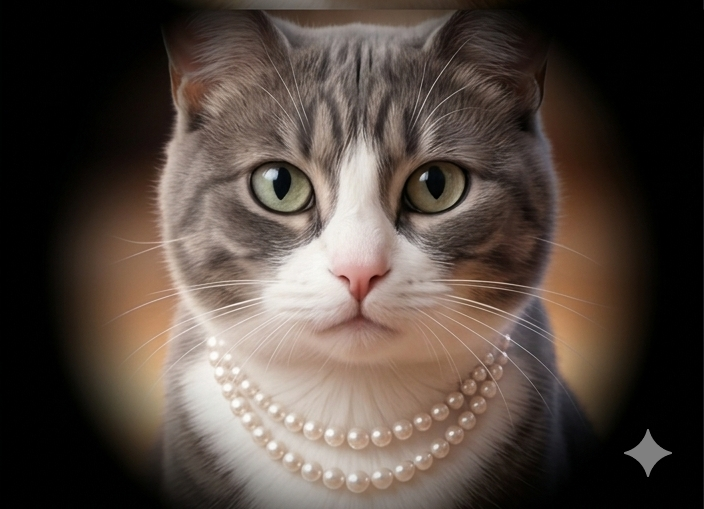
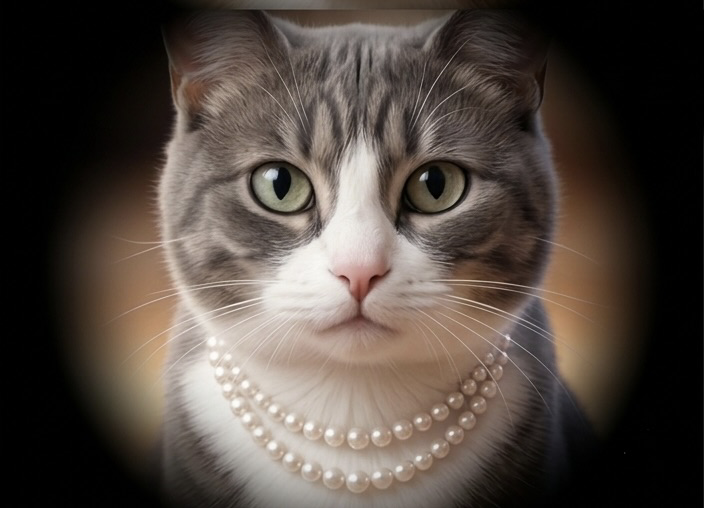
Background audio with foreground haptic resume + face polish
This commit bundles three pieces of Phase B feedback:

1) Lock-screen behavior (Option A: audio keeps going, haptic resumes
   on unlock). Added UIBackgroundModes=audio to Info.plist so the
   audio session survives lock. iOS does NOT permit CHHapticEngine to
   play under lock — that's a documented system restriction (see
   CHHapticEngine.StoppedReason.applicationSuspended). My earlier
   attempt to restart from the stoppedHandler was based on a wrong
   assumption; reverted. The right move is to restart the engine the
   instant the app comes back to the foreground, which is what
   SceneDelegate.sceneWillEnterForeground now does via the new
   AppState.resumeHapticsForForegroundIfNeeded().

2) Slide-down for the kitten buttons. faceImageView starts isHidden,
   so before any selection the kitten buttons sit centered. On first
   selection we animate isHidden=false + alpha=1 + layoutIfNeeded in
   one block, which lets UIStackView slide the buttons down naturally
   to make room. Switching between kittens uses transitionCrossDissolve
   on the image only — buttons stay put. Stop / timer expire collapses
   the face and slides the buttons back up.

3) Landscape layout jump on bolding. Cause: in landscape the kitten
   buttons are a horizontal row whose height equals the tallest
   button. Bolding the active kitten (24pt regular -> 26pt bold)
   grew the intrinsic height ~2pt, and because mainStackView is
   centered vertically + horizontally, that 2pt growth re-centered
[…]

diff --git a/Purr Machine/Purr Machine/ViewController.swift b/Purr Machine/Purr Machine/ViewController.swift
@@ -87,6 +87,12 @@ extension ViewController {
             b.layer.cornerRadius = 10
             b.tag = kitten.rawValue
             b.addTarget(self, action: #selector(kittenButtonTapped(_:)), for: .touchUpInside)
+            // Lock height so the 24pt-regular ↔ 26pt-bold swap on activation
+            // can't change the button's intrinsic height. In landscape the
+            // kitten buttons are a horizontal row whose height = tallest
+            // button, so without this any font-weight change would resize
+            // the row and re-center the whole layout (visible as a jump).
+            b.heightAnchor.constraint(equalToConstant: 50).isActive = true
             return b
         }
 
@@ -102,14 +108,17 @@ extension ViewController {
         timerButton.titleLabel?.font = UIFont.systemFont(ofSize: 22, weight: .regular)
         timerButton.layer.cornerRadius = 10
         timerButton.addTarget(self, action: #selector(timerButtonTapped), for: .touchUpInside)
+        timerButton.heightAnchor.constraint(equalToConstant: 50).isActive = true
 
-        // Face image — reserves its space at all times (alpha starts at 0)
-        // so kitten taps fade the face in without shifting the buttons.
-        // Black-on-black: the vignette's edge falls off to pure black against
-        // the app's black background, making the face appear to materialize.
+        // Face image. Starts collapsed (isHidden = true) so the buttons sit
+        // centered when no kitten is selected. On selection the stack animates
+        // the face into existence above the buttons, which naturally slides
+        // them down. Black-on-black: the vignette falls off to pure black
+        // against the app's background, making the face appear to materialize.
         faceImageView = UIImageView()
         faceImageView.contentMode = .scaleAspectFit
         faceImageView.alpha = 0
+        faceImageView.isHidden = true
         faceImageView.translatesAutoresizingMaskIntoConstraints = false
         NSLayoutConstraint.activate([
             faceImageView.widthAnchor.constraint(equalToConstant: Self.faceWidth),
@@ -127,17 +136,30 @@ extension ViewController {
         mainStackView.translatesAutoresizingMaskIntoConstraints = false
         view.addSubview(mainStackView)
 
+        // View-relative widths for the kitten stack and the timer button.
+        // We deliberately do NOT pin these to mainStackView.widthAnchor —
+        // that creates a circular dependency (with alignment=.center the
+        // outer stack tries to size to its children, which try to size to
+        // the outer stack) and lets intrinsic content sizes (font weight!)
+        // leak into the layout. Pinning to the view's width is independent
+        // of any text content, so a tap that bolds a kitten name cannot
+        // ripple out into the surrounding layout.
+        //
+        // Each gets the smaller of (view width - 40) or `widthMax`. The
+        // view-relative ceiling adapts to small phones; the absolute cap
+        // keeps things sane on wide landscape iPhones and iPads.
+        let widthMax: CGFloat = 360
         NSLayoutConstraint.activate([
             mainStackView.centerXAnchor.constraint(equalTo: view.centerXAnchor),
             mainStackView.centerYAnchor.constraint(equalTo: view.centerYAnchor),
-            mainStackView.widthAnchor.constraint(lessThanOrEqualTo: view.widthAnchor, constant: -40),
-            // The kitten button stack should still span the available width
-            // so each button has its own row in portrait. Without this the
-            // stack would collapse to its intrinsic content size because of
-            // mainStackView.alignment = .center.
-            stackView.widthAnchor.constraint(equalTo: mainStackView.widthAnchor),
-            timerButton.widthAnchor.constraint(equalTo: mainStackView.widthAnchor),
         ])
+        for v in [stackView!, timerButton!] {
+            let widthEqual = v.widthAnchor.constraint(equalTo: view.widthAnchor, constant: -40)
+            widthEqual.priority = .defaultHigh
+            let widthCap = v.widthAnchor.constraint(lessThanOrEqualToConstant: widthMax)
+            widthCap.priority = .required
+            NSLayoutConstraint.activate([widthEqual, widthCap])
+        }
 
         #if DEBUG
         buildAPIToggleButton()
@@ -270,17 +292,23 @@ extension ViewController {
     }
 
     /// Drive the face image from the current selection. Three cases:
-    ///   * nil           → fade to alpha 0, clear image when done
-    ///   * same kitten   → no-op (avoid re-running the fade on every tick)
-    ///   * new kitten    → cross-dissolve image and fade alpha to 1 in one
-    ///                     animation block, so a switch flows like a memory
-    ///                     replacing a memory (Mark's word)
+    ///   * nil               → fade out + collapse from stack (buttons slide
+    ///                          back to vertically-centered position)
+    ///   * first selection   → fade in + expand into stack (buttons slide
+    ///                          down to make room — Mark's ask)
+    ///   * switching kittens → just cross-dissolve the image; buttons stay
+    ///                          put because the face is already in the stack
     private func updateFaceImage(for kitten: Kitten?) {
         guard let kitten else {
-            guard faceImageView.alpha > 0 else { return }
+            // No selection. If face is already collapsed, nothing to do.
+            guard !faceImageView.isHidden else { return }
             UIView.animate(withDuration: Self.faceFadeDuration, delay: 0,
                            options: [.curveEaseInOut, .beginFromCurrentState],
-                           animations: { self.faceImageView.alpha = 0 },
+                           animations: {
+                               self.faceImageView.alpha = 0
+                               self.faceImageView.isHidden = true
+                               self.view.layoutIfNeeded()
+                           },
                            completion: { _ in
                                if self.state.currentlyPlaying == nil {
                                    self.faceImageView.image = nil
@@ -289,14 +317,28 @@ extension ViewController {
             return
         }
         let newImage = UIImage(named: faceAsset(for: kitten))
-        // Already showing this exact image at full alpha — leave it alone.
+        if faceImageView.isHidden {
+            // First-time appearance: set the image, then animate the slide-
+            // down + fade-in together in one block so the timing is unified.
+            faceImageView.image = newImage
+            UIView.animate(withDuration: Self.faceFadeDuration, delay: 0,
+                           options: [.curveEaseInOut, .beginFromCurrentState],
+                           animations: {
+                               self.faceImageView.alpha = 1
+                               self.faceImageView.isHidden = false
+                               self.view.layoutIfNeeded()
+                           },
+                           completion: nil)
+            return
+        }
+        // Already in the stack — switching cats. Don't move the layout;
+        // just cross-dissolve the image content. Memories replacing memories.
         if faceImageView.image === newImage && faceImageView.alpha >= 1 { return }
         UIView.transition(with: faceImageView,
                           duration: Self.faceFadeDuration,
                           options: [.transitionCrossDissolve, .curveEaseInOut, .beginFromCurrentState],
                           animations: {
                               self.faceImageView.image = newImage
-                              self.faceImageView.alpha = 1
                           },
                           completion: nil)
     }

diff --git a/Purr Machine/Purr Machine/AppState.swift b/Purr Machine/Purr Machine/AppState.swift
@@ -316,7 +316,7 @@ extension AppState {
             engine.stoppedHandler = { reason in
                 print("AppState: haptic engine stopped — reason=\(reason.rawValue)")
                 Task { @MainActor in
-                    AppState.shared.handleEngineStopped()
+                    AppState.shared.handleEngineStopped(reason: reason)
                 }
             }
             engine.resetHandler = {
@@ -350,15 +350,38 @@ extension AppState {
         return hapticsEngine
     }
 
-    /// Called from the engine's stoppedHandler (on a background thread, hopped
-    /// to main). Tear down the player references since they're no longer valid.
-    fileprivate func handleEngineStopped() {
+    /// Called from the engine's stoppedHandler. Tears down player references
+    /// (they're invalid after the engine stops) and posts a state change.
+    ///
+    /// Note on background haptics: iOS does NOT permit CHHapticEngine to
+    /// play with the screen locked or the app backgrounded. This is a
+    /// system-level restriction (see Apple docs for
+    /// `CHHapticEngine.StoppedReason.applicationSuspended`). We get audio
+    /// background playback via `UIBackgroundModes = audio`, but the haptic
+    /// engine stops the moment we suspend and cannot be restarted until
+    /// the app returns to the foreground. The foreground transition is
+    /// handled by `resumeHapticsForForegroundIfNeeded()` below.
+    fileprivate func handleEngineStopped(reason: CHHapticEngine.StoppedReason) {
         purrPlayer      = nil
         heartbeatPlayer = nil
         apiPlayer       = nil
-        // Engine instance is kept; CHHapticEngine.start() will revive it on
-        // next demand.
         notifyChange()
+    }
+
+    /// Call when the app returns to the foreground. If a kitten is still
+    /// playing (audio kept going under lock thanks to UIBackgroundModes),
+    /// restart the haptic engine and rebuild patterns so the felt purr is
+    /// back the instant the user looks at the phone.
+    func resumeHapticsForForegroundIfNeeded() {
+        guard let k = currentlyPlaying else { return }
+        guard purrPlayer == nil && heartbeatPlayer == nil else { return }
+        do {
+            try hapticsEngine?.start()
+            startCatHapticsInternal(for: k)
+            print("AppState: haptics resumed on foreground")
+        } catch {
+            print("AppState: haptic resume on foreground failed: \(error)")
+        }
     }
 
     /// Called from the engine's resetHandler. Restart the engine and rebuild

diff --git a/Purr Machine/Purr Machine/SceneDelegate.swift b/Purr Machine/Purr Machine/SceneDelegate.swift
@@ -19,6 +19,17 @@ class SceneDelegate: UIResponder, UIWindowSceneDelegate {
     func sceneDidDisconnect(_ scene: UIScene) {}
     func sceneDidBecomeActive(_ scene: UIScene) {}
     func sceneWillResignActive(_ scene: UIScene) {}
-    func sceneWillEnterForeground(_ scene: UIScene) {}
+
+    /// iOS won't let CHHapticEngine play under the lock screen — that's
+    /// system policy. Audio continues thanks to UIBackgroundModes=audio,
+    /// but the haptic engine is stopped on suspend. The instant we come
+    /// back to the foreground, restart it so the felt purr is there when
+    /// the user looks at the phone.
+    func sceneWillEnterForeground(_ scene: UIScene) {
+        Task { @MainActor in
+            AppState.shared.resumeHapticsForForegroundIfNeeded()
+        }
+    }
+
     func sceneDidEnterBackground(_ scene: UIScene) {}
 }